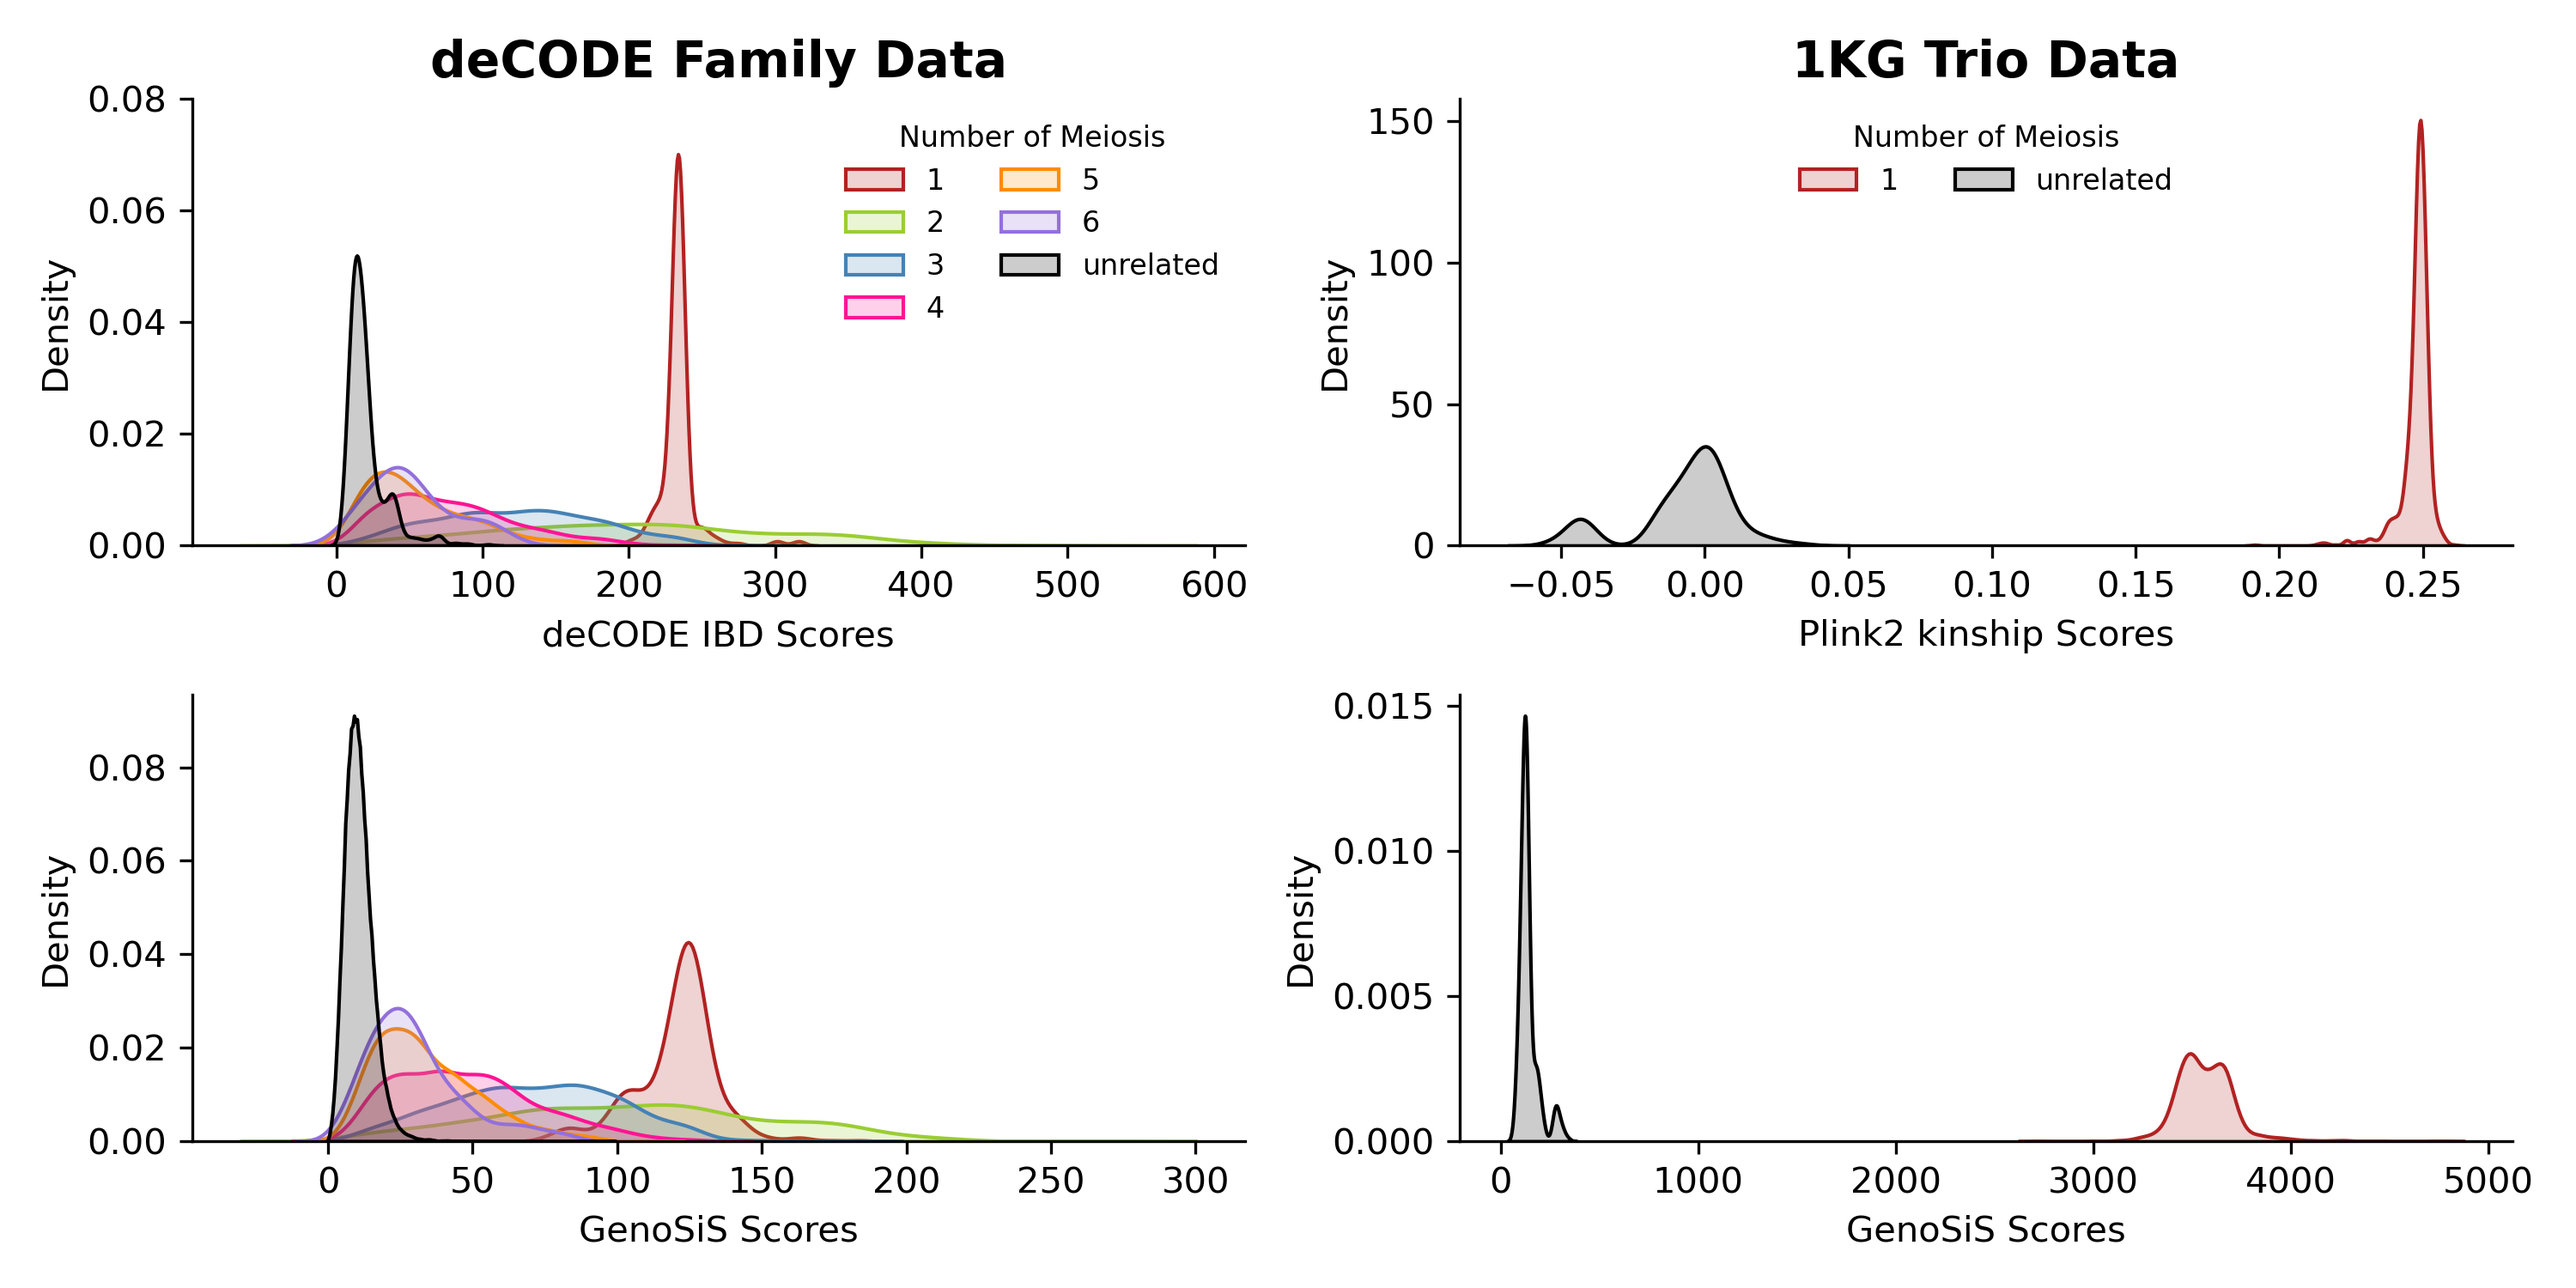
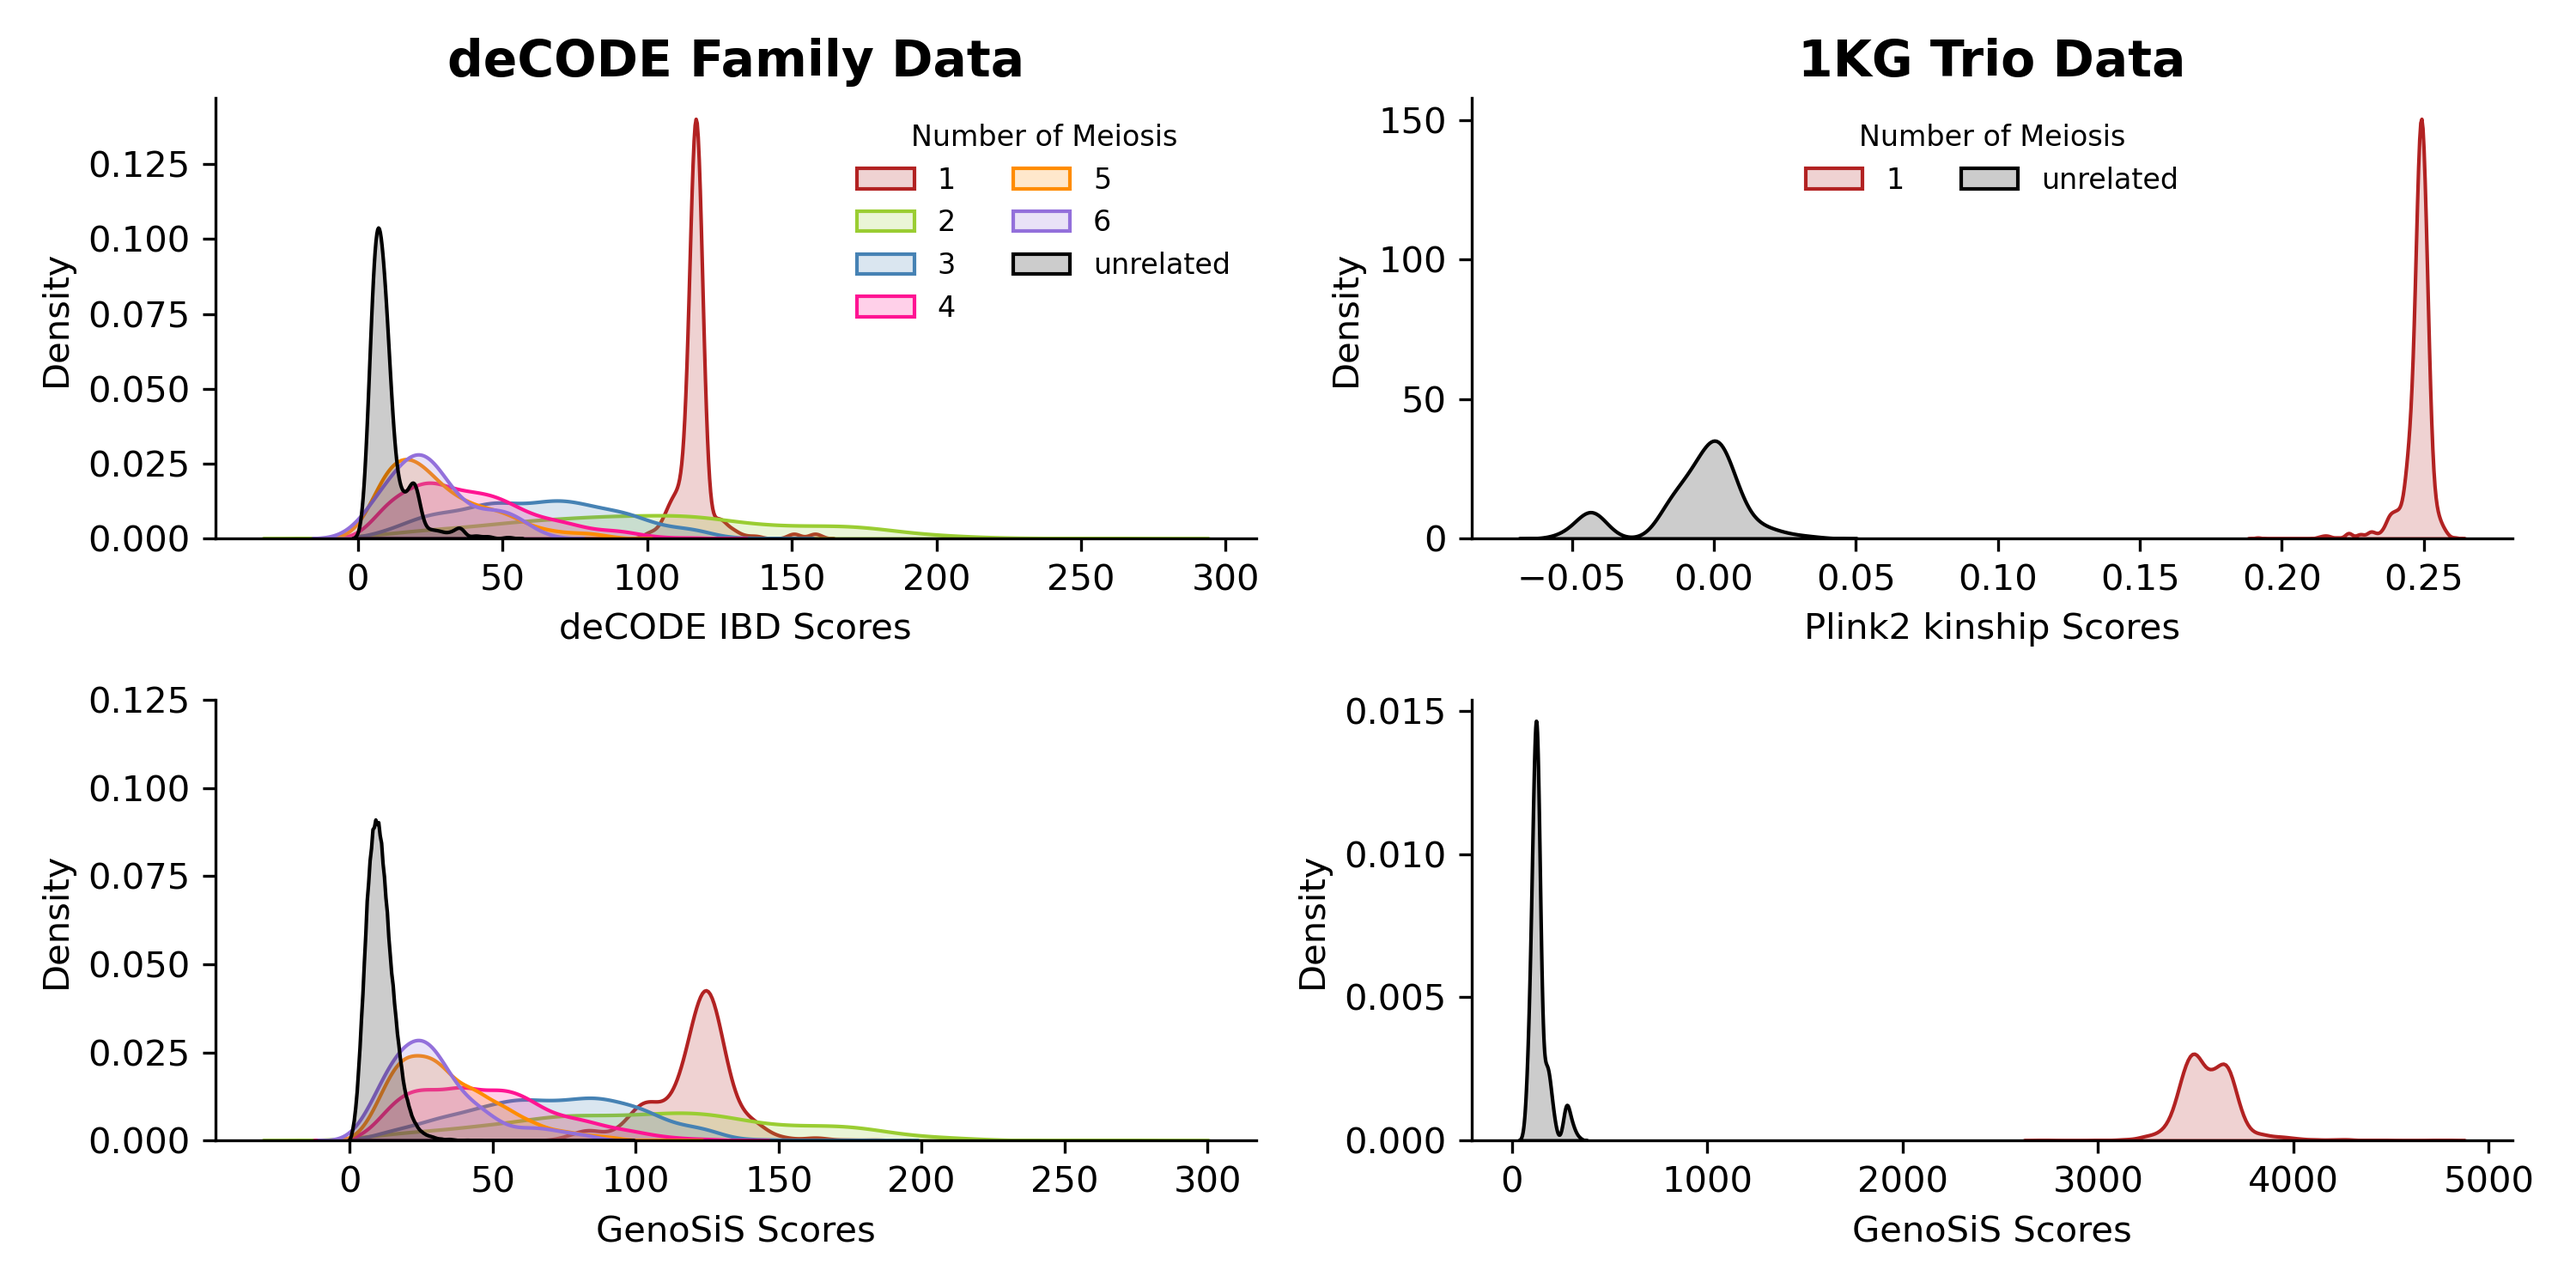
added colors options

diff --git a/README.md b/README.md
@@ -1,6 +1,11 @@
 # biobagg_analysis
 
 ## Publication Figures
+To generate all figures, run:
+```
+bash pubfigures/generate_all_figures.sh
+```
+
 ### Figure 1: Workflow
 <details>
   
@@ -11,6 +16,7 @@
 ### Figure 2: Family Data
 ```
 python plotting/figure2_related.py \
+    --colors pub_figures/colors.txt \
     --decode_genosis data/decode/decode_POP.txt \
     --decode_ibd data/decode/decode_IBD.txt \
     --AFR_genosis data/1kg_trio_data/GenoSiS_AFR_trio_scores_20.txt \
@@ -18,6 +24,16 @@ python plotting/figure2_related.py \
     --EAS_genosis data/1kg_trio_data/GenoSiS_EAS_trio_scores_20.txt \
     --EUR_genosis data/1kg_trio_data/GenoSiS_EUR_trio_scores_20.txt \
     --SAS_genosis data/1kg_trio_data/GenoSiS_SAS_trio_scores_20.txt \
+    --AFR_dst data/1kg_trio_data/plink_dst_AFR_trio_scores_20.txt \
+    --AMR_dst data/1kg_trio_data/plink_dst_AMR_trio_scores_20.txt \
+    --EAS_dst data/1kg_trio_data/plink_dst_EAS_trio_scores_20.txt \
+    --EUR_dst data/1kg_trio_data/plink_dst_EUR_trio_scores_20.txt \
+    --SAS_dst data/1kg_trio_data/plink_dst_SAS_trio_scores_20.txt \
+    --AFR_pihat data/1kg_trio_data/plink_pihat_AFR_trio_scores_20.txt \
+    --AMR_pihat data/1kg_trio_data/plink_pihat_AMR_trio_scores_20.txt \
+    --EAS_pihat data/1kg_trio_data/plink_pihat_EAS_trio_scores_20.txt \
+    --EUR_pihat data/1kg_trio_data/plink_pihat_EUR_trio_scores_20.txt \
+    --SAS_pihat data/1kg_trio_data/plink_pihat_SAS_trio_scores_20.txt \
     --AFR_kin data/1kg_trio_data/plink_kin_AFR_trio_scores_20.txt \
     --AMR_kin data/1kg_trio_data/plink_kin_AMR_trio_scores_20.txt \
     --EAS_kin data/1kg_trio_data/plink_kin_EAS_trio_scores_20.txt \
@@ -36,8 +52,9 @@ python plotting/figure2_related.py \
 python plotting/figure3_ancestry.py \
     --ancestry data/1kg_info/1kg_ancestry.tsv \
     --k 20 \
-    --genosis_groups data/1KG_pop_hits.txt \
-    --genosis_k data/TOP_HITS_20.txt \
+    --colors pub_figures/colors.txt \
+    --genosis_groups data/1kg_pop_hits.txt \
+    --genosis_k data/1kg_top_hits/TOP_HITS_20.txt \
     --dst_groups data/1kg_plink_topK/plink_DST_20_groups.txt \
     --pihat_groups data/1kg_plink_topK/plink_pihat_20_groups.txt \
     --kinship_groups data/1kg_plink_topK/plink_kin_20_groups.txt \
@@ -56,11 +73,12 @@ python plotting/figure3_ancestry.py \
 
 ### Figure 5: Cohort Quality
 ```
-python plotting/figure3_ancestry.py \
+python plotting/figure5_quality.py \
     --ancestry data/1kg_info/1kg_ancestry.tsv \
     --k 20 \
-    --quality_dir quality_data/ \
-    --png pub_figures/quality
+    --colors pub_figures/colors.txt \
+    --quality_dir data/quality_data/ \
+    --png_hist pub_figures/figure5_histogram.png
 ```
 <details>
   
@@ -74,10 +92,11 @@ python plotting/figure3_ancestry.py \
 python plotting/figure_sup_subpops.py \
     --ancestry data/1kg_info/1kg_ancestry.tsv \
     --k 20 \
-    --genosis data/subpop_counts/genosis_subpop_counts.tsv
-    --dst data/subpop_counts/dst_subpop_counts.tsv
-    --pihat data/subpop_counts/pihat_subpop_counts.tsv
-    --kin data/subpop_counts/kinship_subpop_counts.tsv
+    --colors pub_figures/colors.txt \
+    --genosis data/subpop_counts/genosis_subpop_counts.tsv \
+    --dst data/subpop_counts/dst_subpop_counts.tsv \
+    --pihat data/subpop_counts/pihat_subpop_counts.tsv \
+    --kin data/subpop_counts/kinship_subpop_counts.tsv \
     --png pub_figures/
 ```
 <details>
